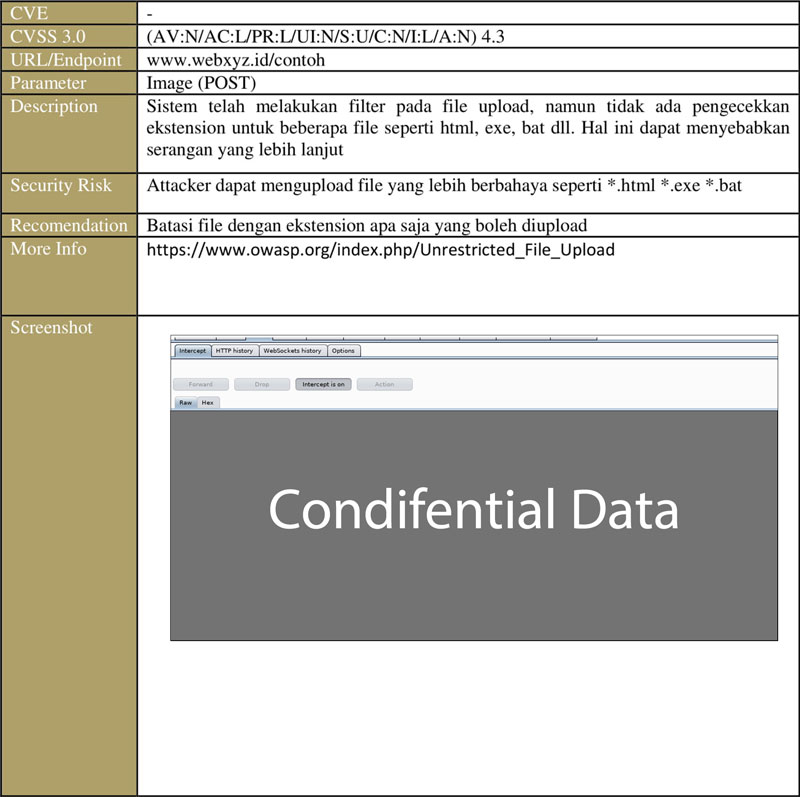
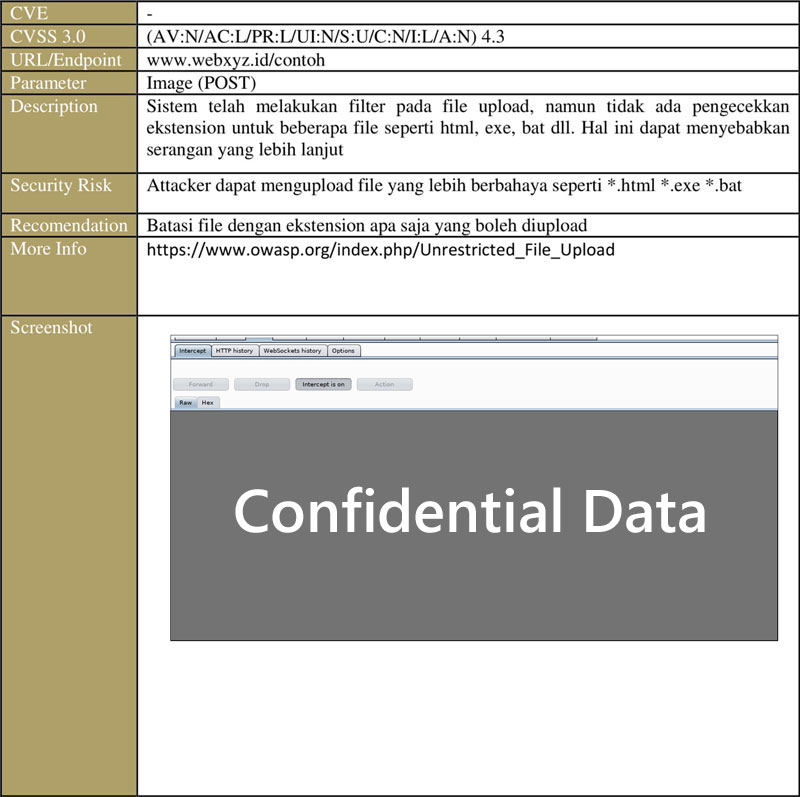
fixing typo in pentest page

Changed region(s): [[0.2812, 0.6023, 0.9062, 0.6926]]

diff --git a/layanan/penetration-test.php b/layanan/penetration-test.php
@@ -1053,6 +1053,25 @@
                             <div class="sample-report__text text-center">Bypassing Unrestricted File Upload</div>
                         </a>
                     </div>
+                    <div class="clearfix"></div>
+                    <div class="col-sm-4" >
+                        <a href="assets/img/img-pentest/sample-report-bug-finding.jpg" data-toggle="lightbox">
+                            <img src="assets/img/img-pentest/sample-report-bug-finding.jpg" class="img-responsive" alt="Table Bug of Finding" style="border: solid 1px">
+                            <div class="sample-report__text text-center">Table Bug of Finding</div>
+                        </a>
+                    </div>
+                    <div class="col-sm-4">
+                        <a href="assets/img/img-pentest/sample-report-local-storage.jpg" data-toggle="lightbox">
+                            <img src="assets/img/img-pentest/sample-report-local-storage.jpg" class="img-responsive" alt="Unencrypted Local Storage">
+                            <div class="sample-report__text text-center">Unencrypted Local Storage</div>
+                        </a>
+                    </div>
+                    <div class="col-sm-4">
+                        <a href="assets/img/img-pentest/sample-report-telnet.jpg" data-toggle="lightbox">
+                            <img src="assets/img/img-pentest/sample-report-telnet.jpg" class="img-responsive" alt="Telnet Service Externally Available">
+                            <div class="sample-report__text text-center">Telnet Service Externally Available</div>
+                        </a>
+                    </div>
                 </div>
             </div>
         </section>

diff --git a/en/services/penetration-test.php b/en/services/penetration-test.php
@@ -801,6 +801,25 @@
                             <div class="sample-report__text text-center">Bypassing Unrestricted File Upload</div>
                         </a>
                     </div>
+                    <div class="clearfix"></div>
+                    <div class="col-sm-4" >
+                        <a href="assets/img/img-pentest/sample-report-bug-finding.jpg" data-toggle="lightbox">
+                            <img src="assets/img/img-pentest/sample-report-bug-finding.jpg" class="img-responsive" alt="Table Bug of Finding" style="border: solid 1px">
+                            <div class="sample-report__text text-center">Table Bug of Finding</div>
+                        </a>
+                    </div>
+                    <div class="col-sm-4">
+                        <a href="assets/img/img-pentest/sample-report-local-storage.jpg" data-toggle="lightbox">
+                            <img src="assets/img/img-pentest/sample-report-local-storage.jpg" class="img-responsive" alt="Unencrypted Local Storage">
+                            <div class="sample-report__text text-center">Unencrypted Local Storage</div>
+                        </a>
+                    </div>
+                    <div class="col-sm-4">
+                        <a href="assets/img/img-pentest/sample-report-telnet.jpg" data-toggle="lightbox">
+                            <img src="assets/img/img-pentest/sample-report-telnet.jpg" class="img-responsive" alt="Telnet Service Externally Available">
+                            <div class="sample-report__text text-center">Telnet Service Externally Available</div>
+                        </a>
+                    </div>
                 </div>
             </div>
         </section>

diff --git a/jp/services/penetration-test.php b/jp/services/penetration-test.php
@@ -662,6 +662,25 @@
                             <div class="sample-report__text text-center">Bypassing Unrestricted File Upload</div>
                         </a>
                     </div>
+                    <div class="clearfix"></div>
+                    <div class="col-sm-4" >
+                        <a href="assets/img/img-pentest/sample-report-bug-finding.jpg" data-toggle="lightbox">
+                            <img src="assets/img/img-pentest/sample-report-bug-finding.jpg" class="img-responsive" alt="Table Bug of Finding" style="border: solid 1px">
+                            <div class="sample-report__text text-center">Table Bug of Finding</div>
+                        </a>
+                    </div>
+                    <div class="col-sm-4">
+                        <a href="assets/img/img-pentest/sample-report-local-storage.jpg" data-toggle="lightbox">
+                            <img src="assets/img/img-pentest/sample-report-local-storage.jpg" class="img-responsive" alt="Unencrypted Local Storage">
+                            <div class="sample-report__text text-center">Unencrypted Local Storage</div>
+                        </a>
+                    </div>
+                    <div class="col-sm-4">
+                        <a href="assets/img/img-pentest/sample-report-telnet.jpg" data-toggle="lightbox">
+                            <img src="assets/img/img-pentest/sample-report-telnet.jpg" class="img-responsive" alt="Telnet Service Externally Available">
+                            <div class="sample-report__text text-center">Telnet Service Externally Available</div>
+                        </a>
+                    </div>
                 </div>
             </div>
         </section>
